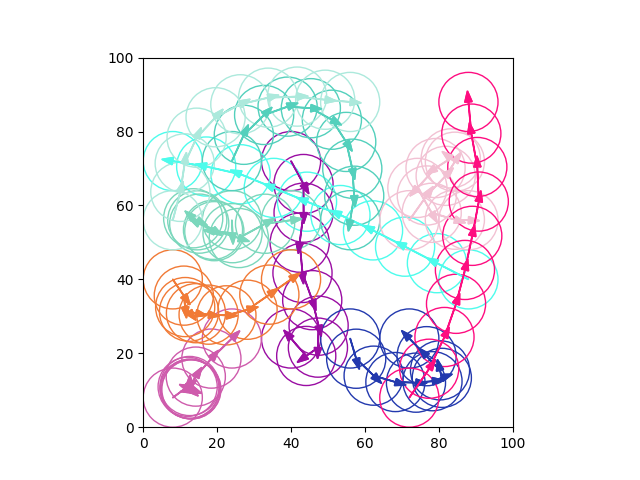
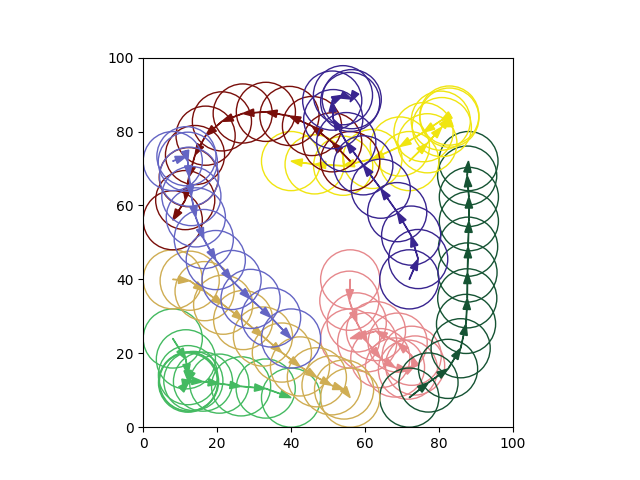
tried fixing lp issue

Changed region(s): [[0.2188, 0.125, 0.8125, 0.875], [0.7188, 0.125, 0.75, 0.1562]]

diff --git a/roomba_lp.py b/roomba_lp.py
@@ -25,7 +25,6 @@ class Roomba:
         self.p_start = p_start
         self.p_target = p_target
         self.speed = speed
-        sqrspeed = self.speed**2
 
         self.pos_x_vars = m.addVars(steps, lb = float(half_roomba_width), ub = float(grid_width - half_roomba_width))
         self.pos_y_vars = m.addVars(steps, lb = float(half_roomba_width), ub = float(grid_height - half_roomba_width))
@@ -53,29 +52,31 @@ for _ in range(2):
     roombas.append(Roomba(start, target))
 
 # Collision-Avoidance Terms
-non_abses = list()
-abses = list()
 for r1, r2 in combinations(roombas, 2):
-    for n in range(steps):
+    for n in range(1, steps - 1):
         # model distance along x and y axis
-        dx = m.addVar(lb = -grid_width, ub = grid_width)
-        dy = m.addVar(lb = -grid_height, ub = grid_height)
-        m.addConstr(dx == r1.pos_x_vars[n] - r2.pos_x_vars[n])
-        m.addConstr(dy == r1.pos_y_vars[n] - r2.pos_y_vars[n])
-        non_abses.append(dx)
-        non_abses.append(dy)
+        x1 = r1.pos_x_vars[n]
+        x2 = r2.pos_x_vars[n]
+        y1 = r1.pos_y_vars[n]
+        y2 = r2.pos_y_vars[n]
+        dx = x1 - x2
+        dy = y1 - y2
 
-        # model absolute distance
-        absdist_x = m.addVar()
-        absdist_y = m.addVar()
-        abses.append(absdist_x)
-        abses.append(absdist_y)
-        m.addConstr(absdist_x == gp.abs_(dx))
-        m.addConstr(absdist_y == gp.abs_(dy))
-        
-        # avoid collision
-        m.addConstr(absdist_x >= roomba_width)
-        m.addConstr(absdist_y >= roomba_width)
+        # dummy variables (binary)
+        a = m.addVar(vtype = GRB.BINARY)
+        b = m.addVar(vtype = GRB.BINARY)
+        c = m.addVar(vtype = GRB.BINARY)
+        d = m.addVar(vtype = GRB.BINARY)
+
+        # x distance
+        m.addConstr((a == 1) >> (dx <= -roomba_width))
+        m.addConstr((b == 1) >> (dx >= roomba_width))
+        m.addConstr(a + b == 1) # xor
+
+        # y distance
+        m.addConstr((c == 1) >> (dy <= -roomba_width))
+        m.addConstr((d == 1) >> (dy >= roomba_width))
+        m.addConstr(c + d == 1) #xor
 
 m.setParam('Threads', 12)
 #m.setParam('NonConvex', 2)
@@ -114,6 +115,3 @@ for r in roombas:
 with open("paths.json", "w") as f:
         json.dump(paths, f)
 plt.savefig("out.png")
-
-print([a.x for a in non_abses])
-print([a.x for a in abses])

diff --git a/roomba.py b/roomba.py
@@ -10,7 +10,7 @@ grid_width = 100
 grid_height = 100
 roomba_width = 16
 half_roomba_width = roomba_width//2
-steps = 10
+steps = 12
 
 def distance(p1, p2):
     return sqrt((p2[0] - p1[0])**2 + (p2[1] - p1[1])**2)
@@ -50,13 +50,14 @@ class Roomba:
 roombas = list()
 grid_points = [(x, y) for x in range(half_roomba_width, grid_width, roomba_width) for y in range(half_roomba_width, grid_height, roomba_width)]
 
-for _ in range(10):
+for _ in range(8):
     start = grid_points.pop(randrange(0, len(grid_points)))
     target = grid_points.pop(randrange(0, len(grid_points)))
     roombas.append(Roomba(start, target))
 
 # Collision-Avoidance Terms
 for r1, r2 in combinations(roombas, 2):
+    print("AAA")
     for n in range(steps):
         dx = r1.pos_x_vars[n] - r2.pos_x_vars[n]
         dy = r1.pos_y_vars[n] - r2.pos_y_vars[n]
@@ -84,8 +85,6 @@ axes.set_xlim((0, grid_width))
 axes.set_ylim((0, grid_height))
 axes.set_aspect(grid_width / grid_height)
 
-circles = list()
-arrows = list()
 for r in roombas:
     color = tuple(random() for _ in range(3))
     movv = [(r.mov_x_vars[i].x, r.mov_y_vars[i].x) for i in range(steps - 1)]
@@ -93,16 +92,13 @@ for r in roombas:
 
     for i, (x, y) in enumerate(posv):
         # circle
-        circles.append(plt.Circle((x, y), radius=half_roomba_width, color=color, fill=False))
+        axes.add_artist(plt.Circle((x, y), radius=half_roomba_width, color=color, fill=False))
         # arrow
         if i < steps - 1:
             (dx, dy) = movv[i]
-            arrows.append(plt.arrow(x, y, dx, dy, width=0.1, head_width=2, color=color, shape="full"))
+            plt.arrow(x, y, dx, dy, width=0.1, head_width=2, color=color, shape="full", length_includes_head=True)
 
     paths.append(posv)
-
-for artist in chain(circles, arrows):
-    axes.add_artist(artist)
 
 with open("paths.json", "w") as f:
         json.dump(paths, f)
